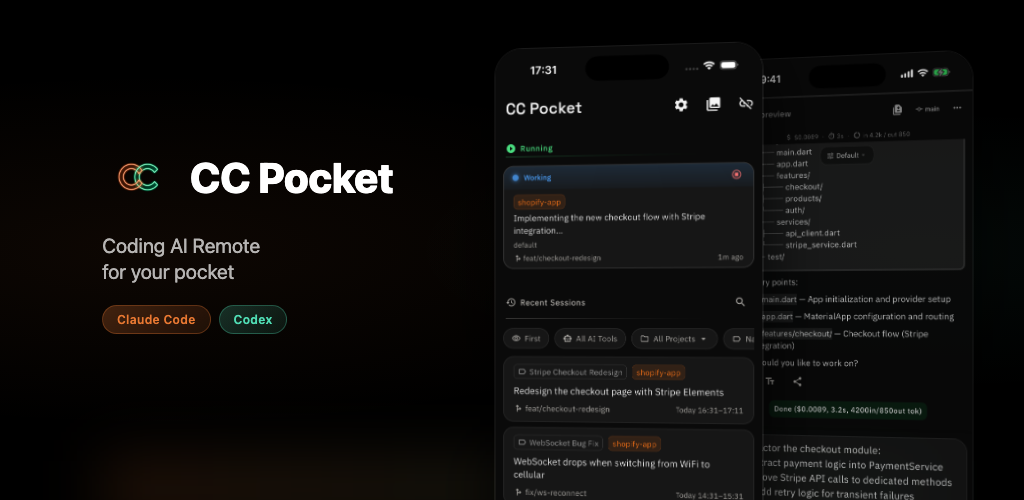
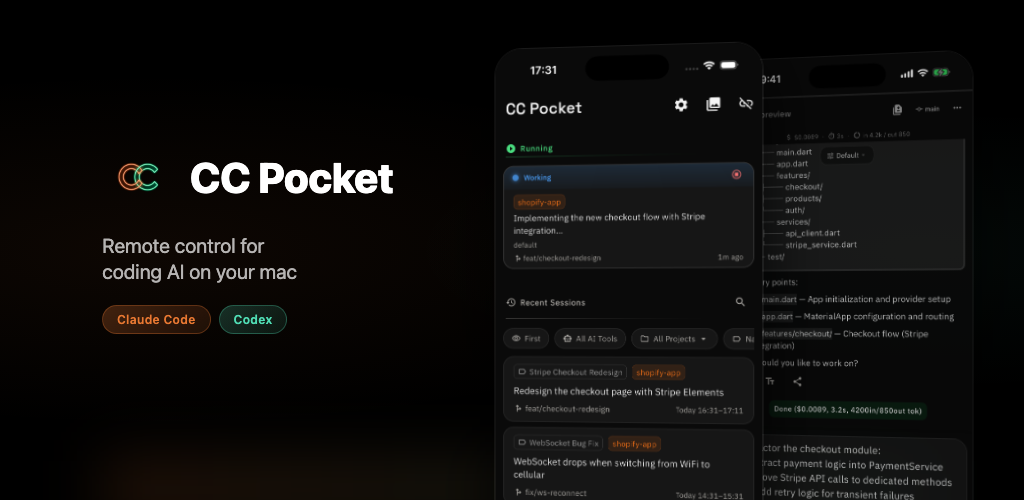
chore: update store copy to emphasize remote control of mac coding AI
- Tagline: "mac上のコードAIを、スマホからリモート操作" / "Remote control for coding AI on your mac"
- Update Android title, short_description
- Update iOS subtitle, promotional_text
- Update README lead text
- Regenerate feature graphics with new taglines

Changed region(s): [[0.0938, 0.48, 0.2812, 0.57]]

diff --git a/scripts/feature-graphic/template-ja.html b/scripts/feature-graphic/template-ja.html
@@ -170,7 +170,7 @@
         </div>
         <div class="app-name">CC Pocket</div>
       </div>
-      <div class="tagline">コードAIを<br>スマホから操作</div>
+      <div class="tagline">mac上のコードAIを<br>スマホからリモート操作</div>
       <div class="badge-row">
         <span class="badge badge-claude">Claude Code</span>
         <span class="badge badge-codex">Codex</span>

diff --git a/scripts/feature-graphic/template-en.html b/scripts/feature-graphic/template-en.html
@@ -172,7 +172,7 @@
         </div>
         <div class="app-name">CC Pocket</div>
       </div>
-      <div class="tagline">Coding AI Remote<br>for your pocket</div>
+      <div class="tagline">Remote control for<br>coding AI on your mac</div>
       <div class="badge-row">
         <span class="badge badge-claude">Claude Code</span>
         <span class="badge badge-codex">Codex</span>

diff --git a/README.ja.md b/README.ja.md
@@ -1,6 +1,6 @@
 # ccpocket
 
-Claude Code / Codex対応モバイルクライアント。Bridge Server経由でコーディングエージェントをiPhone/Androidから操作できます。
+Claude Code / Codex対応モバイルクライアント。mac上のClaude Code / Codexを、スマホからリモート操作できます。
 
 [English README](README.md)
 

diff --git a/README.md b/README.md
@@ -1,6 +1,6 @@
 # ccpocket
 
-Mobile client for Claude Code and Codex. Control coding agents from your iPhone or Android via a WebSocket bridge server.
+Mobile client for Claude Code and Codex. Remote control coding AI on your mac from your phone via a WebSocket bridge server.
 
 [日本語版 README](README.ja.md)
 
